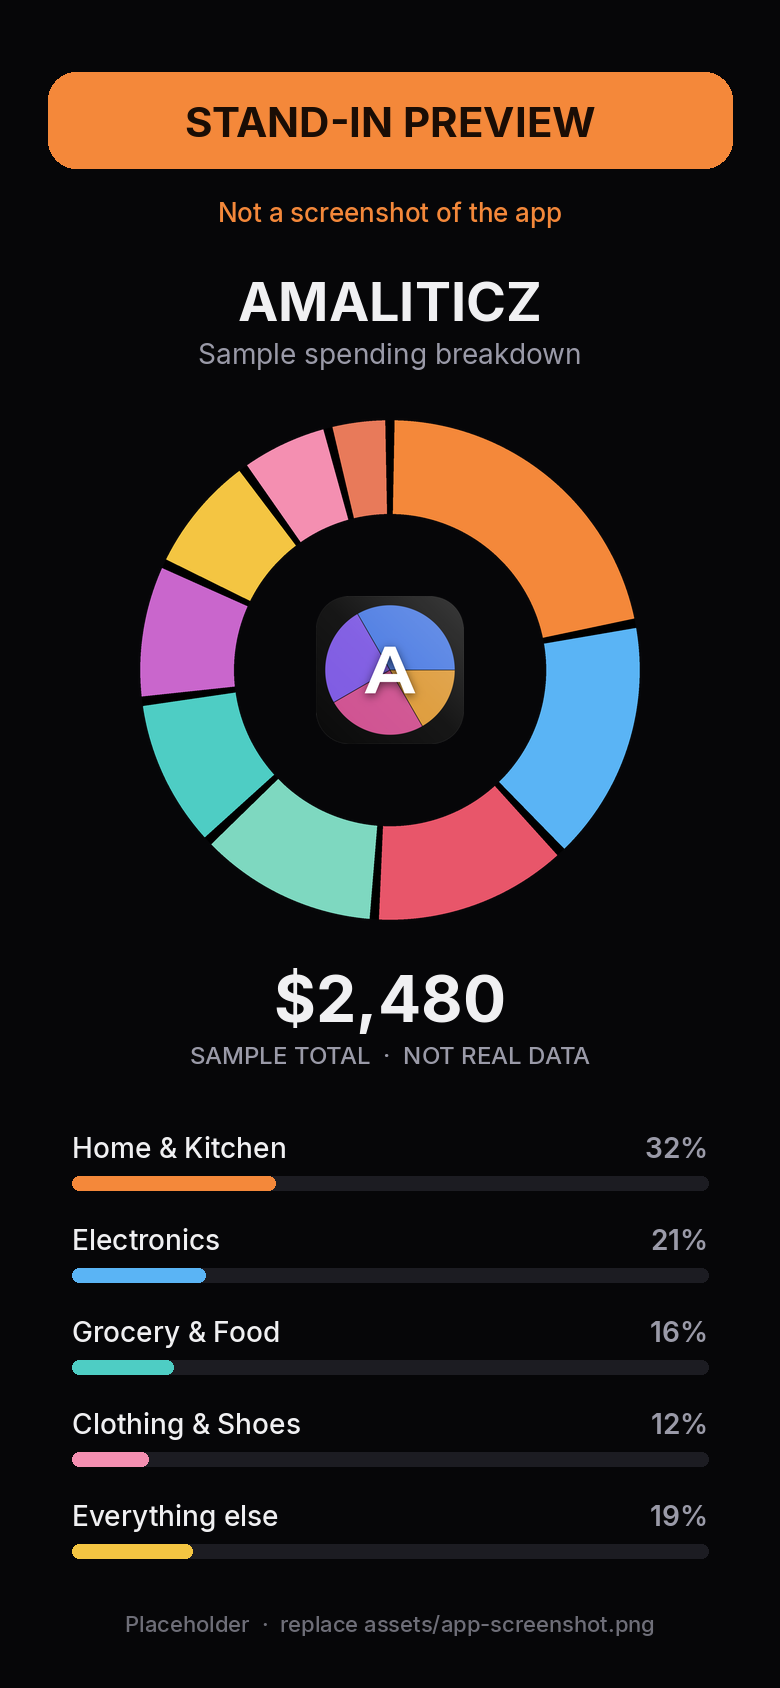
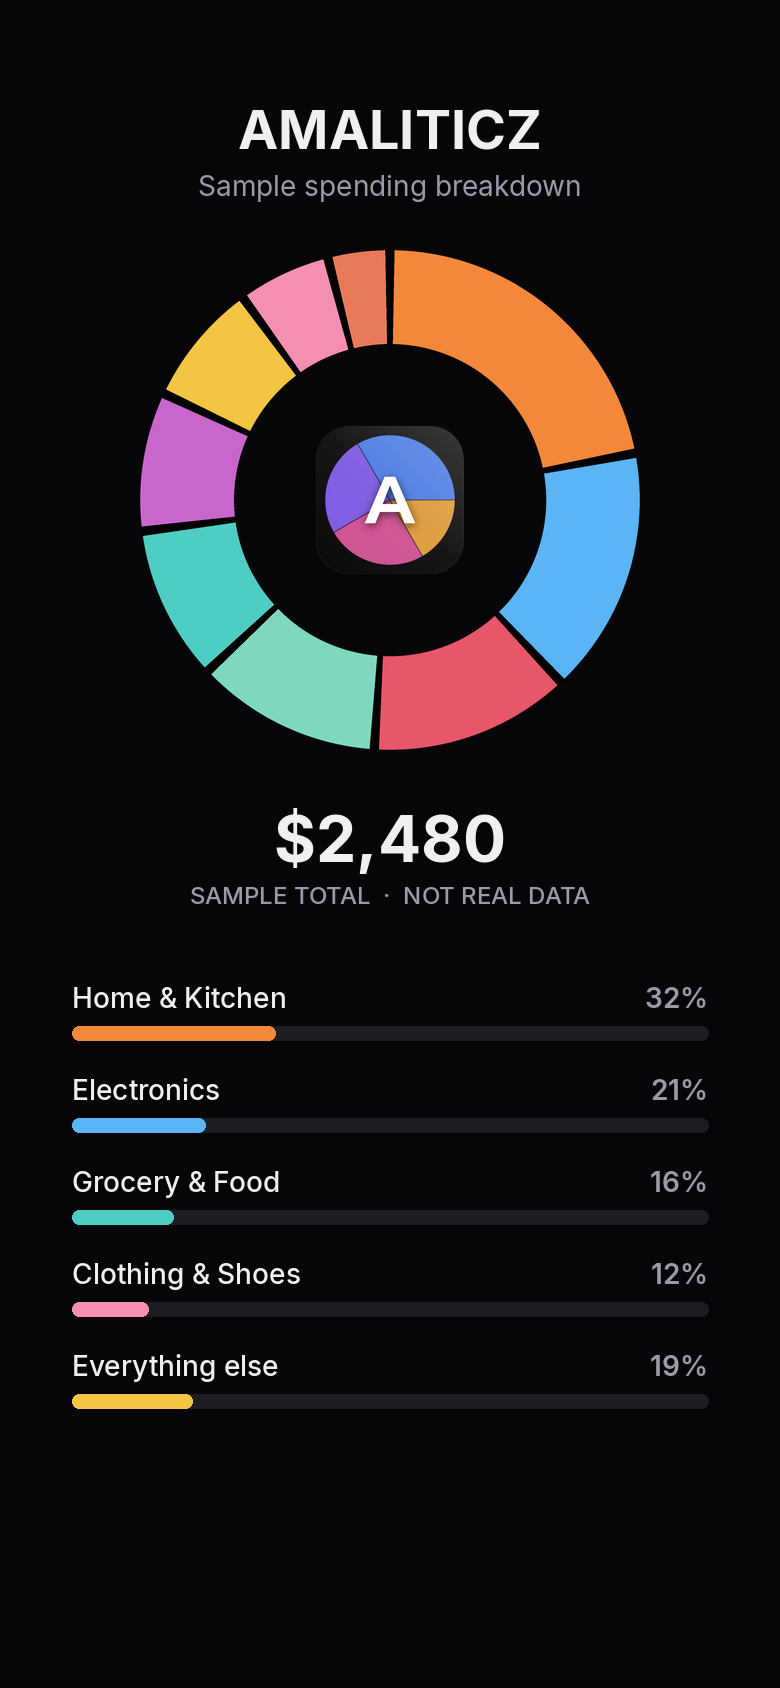
Center the homepage phone and drop the stand-in labels.
Remove the hero donut beside the phone and the stand-in wording in the phone image and caption.

diff --git a/index.html b/index.html
@@ -86,40 +86,15 @@
     }
 
     .product-visual {
-      margin-top: 64px;
+      margin-top: 48px;
       display: flex;
-      align-items: center;
       justify-content: center;
-      gap: 56px;
       position: relative;
       z-index: 1;
     }
 
-    .hero-donut { position: relative; }
-    .donut-container {
-      position: relative;
-      width: clamp(220px, 32vw, 320px);
-      height: clamp(220px, 32vw, 320px);
-      margin: 0 auto;
-    }
-    .donut-container svg { width: 100%; height: 100%; transform: rotate(-90deg); }
-    .donut-inner {
-      position: absolute;
-      inset: 0;
-      display: flex;
-      align-items: center;
-      justify-content: center;
-    }
-    .donut-inner img {
-      width: clamp(60px, 10vw, 88px);
-      height: clamp(60px, 10vw, 88px);
-      border-radius: clamp(14px, 3vw, 22px);
-      box-shadow: 0 0 0 1px rgba(255,255,255,0.1), 0 8px 32px rgba(0,0,0,0.5);
-    }
-
-    .phone-col { display: flex; flex-direction: column; align-items: center; }
     .phone {
-      width: min(280px, 78vw);
+      width: min(300px, 78vw);
       padding: 12px;
       border-radius: 40px;
       background: linear-gradient(165deg, #2c2c32, #0c0c0e 42%, #1a1a1e);
@@ -132,14 +107,6 @@
       line-height: 0;
     }
     .phone-screen img { width: 100%; height: auto; display: block; }
-    .phone-caption {
-      margin-top: 12px;
-      font-size: 12px;
-      font-weight: 500;
-      letter-spacing: 0.12em;
-      text-transform: uppercase;
-      color: var(--orange);
-    }
 
     .color-bar { height: 6px; display: flex; width: 100%; overflow: hidden; position: relative; z-index: 1; }
     .color-bar span { flex: 1; transform-origin: left center; }
@@ -314,7 +281,6 @@
     }
 
     @media (max-width: 800px) {
-      .product-visual { flex-direction: column; gap: 36px; }
       .how-grid { grid-template-columns: 1fr; }
       .how-card { border-radius: 0 !important; }
       .how-card:first-child { border-radius: 18px 18px 0 0 !important; }
@@ -393,33 +359,10 @@
   </div>
 
   <div class="product-visual">
-    <div class="hero-donut">
-      <div class="donut-container">
-        <svg viewBox="0 0 100 100" aria-hidden="true">
-          <circle cx="50" cy="50" r="38" fill="none" stroke="#111115" stroke-width="13"/>
-          <circle class="seg" cx="50" cy="50" r="38" fill="none" stroke="#f4883a" stroke-width="13" stroke-dashoffset="0" style="--len:44"/>
-          <circle class="seg" cx="50" cy="50" r="38" fill="none" stroke="#7ec8e3" stroke-width="13" stroke-dashoffset="-46" style="--len:32"/>
-          <circle class="seg" cx="50" cy="50" r="38" fill="none" stroke="#e8566a" stroke-width="13" stroke-dashoffset="-80" style="--len:23"/>
-          <circle class="seg" cx="50" cy="50" r="38" fill="none" stroke="#7ed8c0" stroke-width="13" stroke-dashoffset="-105" style="--len:27"/>
-          <circle class="seg" cx="50" cy="50" r="38" fill="none" stroke="#4ecdc4" stroke-width="13" stroke-dashoffset="-134" style="--len:22"/>
-          <circle class="seg" cx="50" cy="50" r="38" fill="none" stroke="#5ab4f5" stroke-width="13" stroke-dashoffset="-158" style="--len:22"/>
-          <circle class="seg" cx="50" cy="50" r="38" fill="none" stroke="#c966cc" stroke-width="13" stroke-dashoffset="-182" style="--len:17"/>
-          <circle class="seg" cx="50" cy="50" r="38" fill="none" stroke="#f4c542" stroke-width="13" stroke-dashoffset="-201" style="--len:13"/>
-          <circle class="seg" cx="50" cy="50" r="38" fill="none" stroke="#f48fb1" stroke-width="13" stroke-dashoffset="-216" style="--len:14"/>
-          <circle class="seg" cx="50" cy="50" r="38" fill="none" stroke="#e87a5a" stroke-width="13" stroke-dashoffset="-232" style="--len:5"/>
-        </svg>
-        <div class="donut-inner">
-          <img src="Amaliticz_Icon.png" width="88" height="88" alt="AmaliticZ">
-        </div>
+    <div class="phone">
+      <div class="phone-screen">
+        <img src="assets/app-screenshot.png" width="780" height="1688" alt="AmaliticZ spending breakdown">
       </div>
-    </div>
-    <div class="phone-col">
-      <div class="phone">
-        <div class="phone-screen">
-          <img src="assets/app-screenshot.png" width="780" height="1688" alt="Stand-in preview of an AmaliticZ spending screen. Not a screenshot of the app.">
-        </div>
-      </div>
-      <p class="phone-caption">Stand-in preview</p>
     </div>
   </div>
 </section>

diff --git a/README.md b/README.md
@@ -13,7 +13,7 @@ Static site for [amaliticz.com](https://www.amaliticz.com). Plain HTML and CSS. 
 | `/reset-password/` | `reset-password/index.html` | Password reset (Supabase) |
 | `/verified/` | `verified/index.html` | Email-verified landing page |
 
-Shared styles live in `assets/site.css`. The homepage phone frame uses `assets/app-screenshot.png`, which is a labeled stand-in until a real app screenshot replaces it.
+Shared styles live in `assets/site.css`. The homepage phone frame uses `assets/app-screenshot.png` until a real app screenshot replaces it.
 
 ## Deploy
 
